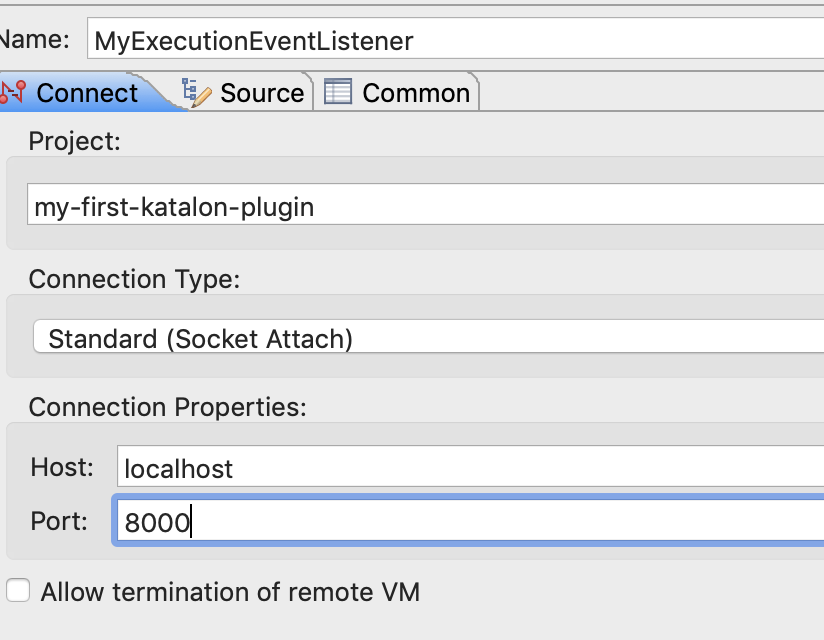
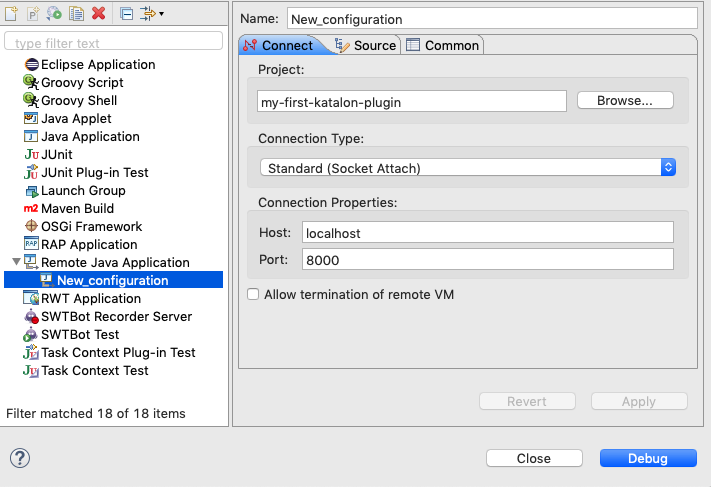
Correct How to debug platform plugin docs

diff --git a/docs/turorials/how-to-debug-your-plugin/how-to-debug-your-plugin-using-Eclipse.md b/docs/turorials/how-to-debug-your-plugin/how-to-debug-your-plugin-using-Eclipse.md
@@ -33,9 +33,11 @@ System.out.println("Hello, my plugin is: " + plugin.getPluginId());
 ### Step 4: Create a Java Remote Application Debugger
 Click on the arrow dropdown of Eclipse debug icon ![debug](https://help.eclipse.org/2019-03/topic/org.eclipse.jdt.doc.user/images/org.eclipse.debug.ui/obj16/ldebug_obj.png), choose `Debug Configuration` item.
 
-Right-click on the `Java Remote Application` and choose `New Configuration`
+![debug_configuration](images/debug_configuration)
 
-![new_remote_debugger](images/new_remote_debugger.png)
+Right-click on the `Java Remote Application` and choose `New Configuration` to add new Remote Debugger
+
+![new_configuration](images/new_configuration)
 
 ### Step 5: Configure the Java Remote Application Debugger
 `Browse` to your platform plugin project at the text field under `Project` section.
@@ -43,6 +45,8 @@ Right-click on the `Java Remote Application` and choose `New Configuration`
 Enter the port number you declared at step 1 to the `Port:` text field under `Connection Properties` section.
 
 Click `Debug` to finish setup.
+
+![new_remote_debugger](images/new_remote_debugger.png)
 
 If your setup is correct, there is a ![disconect](https://help.eclipse.org/luna/rtopic/org.eclipse.cdt.debug.application.doc/images/icon_disconnect.gif) icon will show on Eclipse toolbar.
 
@@ -52,7 +56,7 @@ In this sample, the breakpoint will hit immediately after the plugin succesfiull
 
 ![break_point_hit](images/breakpoint_hit.png)
 
-Now you can debug your platform plugin project as a normal Java project.
+Great, you now can debug your platform plugin project as a normal Java project.
 
 ### Step 7: Disconnect and stop debugging
 Press the ![disconect](https://help.eclipse.org/luna/rtopic/org.eclipse.cdt.debug.application.doc/images/icon_disconnect.gif) icon to disconnect and stop your debugging session.
